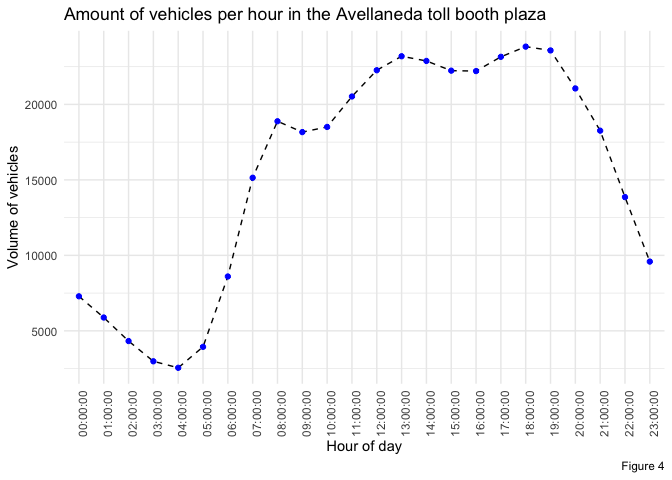
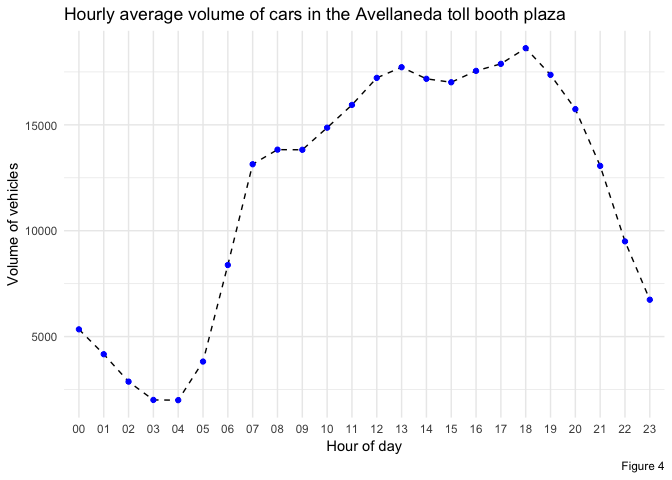
Fixed bug on how arrival rate was computed.

diff --git a/time-estimation/README.md b/time-estimation/README.md
@@ -71,27 +71,25 @@ In the previous section we discussed the need of computing the arrival rate ![\\
 
 ##### Traffic intensity
 
-Going back to what was mentioned at the beginning of this section, traffic intensity was defined as the ratio between the arrival rate ![\\lambda](https://latex.codecogs.com/png.latex?%5Clambda "\lambda") and the service rate ![\\mu](https://latex.codecogs.com/png.latex?%5Cmu "\mu"), so that ![\\lambda &lt; \\mu](https://latex.codecogs.com/png.latex?%5Clambda%20%3C%20%5Cmu "\lambda < \mu"). Expressed that way ![\\mu](https://latex.codecogs.com/png.latex?%5Cmu "\mu") comprises the capacity of all toll booths in a toll booth plaza, so it might be more accurate to express the traffic intensity as ![\\lambda &lt; S\\mu](https://latex.codecogs.com/png.latex?%5Clambda%20%3C%20S%5Cmu "\lambda < S\mu"), where ![S](https://latex.codecogs.com/png.latex?S "S") is the amount of servers which in this case are represented by toll booths. Following the third assumption in the assumptions section, as all toll booths are considered equal, we can express the total capacity of the system by multipying an individual toll booth capacity by the amount of toll booths in a toll booth plaza.
+Going back to what was mentioned at the beginning of this section, traffic intensity was defined as the ratio between the arrival rate ![\\lambda](https://latex.codecogs.com/png.latex?%5Clambda "\lambda") and the service rate ![\\mu](https://latex.codecogs.com/png.latex?%5Cmu "\mu"), so that ![\\lambda &lt; \\mu](https://latex.codecogs.com/png.latex?%5Clambda%20%3C%20%5Cmu "\lambda < \mu"). That condition ensures the system is stable. However, it only accounts for the case of a single server, while in this case we have ![S](https://latex.codecogs.com/png.latex?S "S") toll booths per plaza. This yields a system stability condition of ![\\lambda &lt; S\\mu](https://latex.codecogs.com/png.latex?%5Clambda%20%3C%20S%5Cmu "\lambda < S\mu"), thus defining ![\\rho](https://latex.codecogs.com/png.latex?%5Crho "\rho") as ![\\rho = \\frac{\\lambda}{S\\mu}](https://latex.codecogs.com/png.latex?%5Crho%20%3D%20%5Cfrac%7B%5Clambda%7D%7BS%5Cmu%7D "\rho = \frac{\lambda}{S\mu}"). Following the third assumption in the assumptions section, as all toll booths are considered equal, we can express the total capacity of the system by multipying an individual toll booth capacity by the amount of toll booths in a toll booth plaza.
 
-The next two subsections will be focused on the *Avellaneda* toll booth plaza given that it's the toll booth with the highest volume of vehicles, and with an average of 33 toll booths. The amount of vehicles that arrive on each hour to the toll booth, as shown in Figure 4, is computed considering only the information from January 2014 to December 2018, due to the [asymmetries in the dataset](https://github.com/tulians/traffic/tree/master/descriptive#increment-in-traffic).
+The next two subsections will be focused on the *Avellaneda* toll booth plaza given that it's the toll booth with the highest volume of vehicles, and with an average of 33 toll booths. The amount of vehicles that arrive on each hour to the toll booth, as shown in Figure 4, is computed considering only the information from January 2014 onwards, due to the [asymmetries in the dataset](https://github.com/tulians/traffic/tree/master/descriptive#increment-in-traffic). Additionally, only the *cars* volume will be considered for the mentioned sections, as the analysis can be then extended to the least frequent vehicle types.
 
 ![](README_files/figure-markdown_github/avellanedavehiclesperhour-1.png)
 
 ##### Assumption of 90% utilization
 
-An initial approach to the estimation of time-spent on queues would be to assume that toll booths are operating at 90% of their capacity. It actually makes sense to think that toll booth plazas were designed to be a stable system, due to the fact that even though long queues happen, and frequently during peak hours, they are eventually served up to the point that there's no queue left. In this scenario, each toll booth at the *Avellaneda* toll booth plaza is able to serve up to 523.1244792 vehicles in an hour.
+An initial approach to the estimation of time-spent on queues would be to assume that toll booths are operating at 90% of their capacity. It actually makes sense to think that toll booth plazas were designed to be a stable system, due to the fact that even though long queues happen, and frequently during peak hours, they are eventually served up to the point that there's no queue left. In this scenario, each toll booth at the *Avellaneda* toll booth plaza is able to serve up to 400.901984 vehicles in an hour. This figure comes from computing ![\\mu = \\frac{\\lambda}{S\\rho}](https://latex.codecogs.com/png.latex?%5Cmu%20%3D%20%5Cfrac%7B%5Clambda%7D%7BS%5Crho%7D "\mu = \frac{\lambda}{S\rho}") where ![\\lambda](https://latex.codecogs.com/png.latex?%5Clambda "\lambda") is equal to the 11906.791 vehicles per hour, the average of the amount of vehicles per hour shown in Figure 4, the number of servers ![S](https://latex.codecogs.com/png.latex?S "S") is 33, and the utilization/traffic intensity ![\\rho](https://latex.codecogs.com/png.latex?%5Crho "\rho") is ![90\\%](https://latex.codecogs.com/png.latex?90%5C%25 "90\%"). This result means that in order for the system (toll booth plaza) to be operating at 90% of its capacity, each server (toll booth) needs to service at least 400.9 vehicles per hour. Summing up each server contribution, 13229.771 vehicles can be serviced in an hour by this system. Servicing 13229.771 vehicles in an hour means that on average 220.5 vehicles are serviced per minute in a toll booth plaza, regardless of the toll booth payment method.
 
-where ![\\lambda](https://latex.codecogs.com/png.latex?%5Clambda "\lambda") is equal to the 1553.681 vehicles per hour, the average of the amount of vehicles per hour shown in Figure 4, the number of servers ![S](https://latex.codecogs.com/png.latex?S "S") is 33, and the utilization/traffic intensity ![\\rho](https://latex.codecogs.com/png.latex?%5Crho "\rho") is ![90\\%](https://latex.codecogs.com/png.latex?90%5C%25 "90\%"). This result means that in order for the system (toll booth plaza) to be operating at 90% of its capacity each server (toll booth) needs to service at least 523.12 vehicles per hour. Summing up each server contribution, 1726.3111 vehicles can be serviced in an hour by this system. Servicing 523.12 vehicles in an hour means that on average 8.72 vehicles are serviced per minute.
+Although this number may seem high, it's important to mention that it includes the impact from automatic toll booths, which can service more vehicles that manual toll booths. For the concrete case of the *Avellaneda* toll booth plaza, automatic payments constitute 36.64% of the payments volume. The specific percentages for each our are detailed in Figure 5.
 
-Although this number may seem high, it's important to mention that it includes the impact from automatic toll booths, which can service more vehicles that manual toll booths. For the concrete case of the *Avellaneda* toll booth plaza, automatic payments constitute 38.13% of the payments volume. The specific percentages for each our are detailed in Figure 5.
+![](README_files/figure-markdown_github/utilizationbreakdown-1.png)
 
-![](README_files/figure-markdown_github/percentagegraph-1.png)
-
-If we were to break down the service rate per payment method, we should expect to see faster service time for automatic toll booths, that could account for a high percentage of the almost 8.72 vehicles served per minute. Performing such break down yields 5.6870399 vehicles services by minute in manual payment toll booths, and 18.8859846 vehicles services by minute in automatic payment toll booths.
+If we were to break down the service rate per payment method, we should expect to see faster service time for automatic toll booths, that could account for a high percentage of the almost 220.5 vehicles served per minute. Performing such break down yields 136.4215925 vehicles services by minute in manual payment toll booths, and 84.0744987 vehicles services by minute in automatic payment toll booths. Even though the service rate for manual toll booths is higher than that of automatic toll booths, it must be taken into account that there are more toll booths with manual payment methods that booths with automatic ones. For the particular case of the *Avellaneda* toll booth plaza, an approximate of 6 toll booths are automatic, from a total of 33. This shows that even with just 18.18% of the toll booths being automatic in this plaza, you can service 36.64% of the incoming traffic, as it was mentioned previously.
 
 ###### Characterization of the M/M/S system
 
-Previously a traffic intensity ![\\rho](https://latex.codecogs.com/png.latex?%5Crho "\rho") of ![90\\%](https://latex.codecogs.com/png.latex?90%5C%25 "90\%") was assumed, and by doing so a realistic service rate 5.69 vehicles per minute in manual toll booths and 18.89 vehicles per minute in automatic toll booths was obtained.
+Previously a traffic intensity ![\\rho](https://latex.codecogs.com/png.latex?%5Crho "\rho") of ![90\\%](https://latex.codecogs.com/png.latex?90%5C%25 "90\%") was assumed, and by doing so a realistic service rate 136.42 vehicles per minute in manual toll booths and 84.07 vehicles per minute in automatic toll booths was obtained.
 
 The system will be modeled as an M/M/S queuing model, where
 
@@ -99,38 +97,6 @@ The system will be modeled as an M/M/S queuing model, where
 -   The second M also stands for an exponential distribution, but of the service rate.
 -   And lastly, S stands for the number of servers, in this case toll booths per toll booth plaza.
 
-Traffic intensity ![\\rho](https://latex.codecogs.com/png.latex?%5Crho "\rho") can be used to determine the probability of having no vehicles queuing in the system at a given moment of time, and is written as
+Traffic intensity ![\\rho](https://latex.codecogs.com/png.latex?%5Crho "\rho") can be used to determine the probability of having no vehicles queuing in the system at a given moment of time, and is written as ![P\_0 = 1 - \\rho \\; \\forall \\rho &lt; 1](https://latex.codecogs.com/png.latex?P_0%20%3D%201%20-%20%5Crho%20%5C%3B%20%5Cforall%20%5Crho%20%3C%201 "P_0 = 1 - \rho \; \forall \rho < 1"). This definition of ![P\_0](https://latex.codecogs.com/png.latex?P_0 "P_0") is intuitive, given that if we assume an utilization of ![90\\%](https://latex.codecogs.com/png.latex?90%5C%25 "90\%") it should be expected that the remaining ![10\\%](https://latex.codecogs.com/png.latex?10%5C%25 "10\%") of the time the system is idle.
 
-![
-  \\begin{aligned}
-    P\_0 = 1 - \\rho \\; \\forall \\rho &lt; 1
-  \\end{aligned}
-](https://latex.codecogs.com/png.latex?%0A%20%20%5Cbegin%7Baligned%7D%0A%20%20%20%20P_0%20%3D%201%20-%20%5Crho%20%5C%3B%20%5Cforall%20%5Crho%20%3C%201%0A%20%20%5Cend%7Baligned%7D%0A "
-  \begin{aligned}
-    P_0 = 1 - \rho \; \forall \rho < 1
-  \end{aligned}
-")
-
-This definition of ![P\_0](https://latex.codecogs.com/png.latex?P_0 "P_0") is intuitive, given that if we assume an utilization of ![90\\%](https://latex.codecogs.com/png.latex?90%5C%25 "90\%") it should be expected that the remaining ![10\\%](https://latex.codecogs.com/png.latex?10%5C%25 "10\%") of the time the system is idle. ![P\_0](https://latex.codecogs.com/png.latex?P_0 "P_0") can be used to define the probability of having ![n](https://latex.codecogs.com/png.latex?n "n") vehicles in the system
-
-![
-  \\begin{aligned}
-    P\_n = \\frac{\\rho^n}{n!}P\_0 \\; \\forall n \\leq N
-  \\end{aligned}
-](https://latex.codecogs.com/png.latex?%0A%20%20%5Cbegin%7Baligned%7D%0A%20%20%20%20P_n%20%3D%20%5Cfrac%7B%5Crho%5En%7D%7Bn%21%7DP_0%20%5C%3B%20%5Cforall%20n%20%5Cleq%20N%0A%20%20%5Cend%7Baligned%7D%0A "
-  \begin{aligned}
-    P_n = \frac{\rho^n}{n!}P_0 \; \forall n \leq N
-  \end{aligned}
-")
-
-and
-
-![
-  \\begin{aligned}
-    P\_n = \\frac{\\rho^n}{N^{n-N}N!}P\_0 \\; \\forall n \\geq N
-  \\end{aligned}
-](https://latex.codecogs.com/png.latex?%0A%20%20%5Cbegin%7Baligned%7D%0A%20%20%20%20P_n%20%3D%20%5Cfrac%7B%5Crho%5En%7D%7BN%5E%7Bn-N%7DN%21%7DP_0%20%5C%3B%20%5Cforall%20n%20%5Cgeq%20N%0A%20%20%5Cend%7Baligned%7D%0A "
-  \begin{aligned}
-    P_n = \frac{\rho^n}{N^{n-N}N!}P_0 \; \forall n \geq N
-  \end{aligned}
-")
+Given this definition of ![P\_0](https://latex.codecogs.com/png.latex?P_0 "P_0"), the probability of having ![n](https://latex.codecogs.com/png.latex?n "n") units in the system would be ![P\_n = \\frac{\\rho^n}{n!}P\_0](https://latex.codecogs.com/png.latex?P_n%20%3D%20%5Cfrac%7B%5Crho%5En%7D%7Bn%21%7DP_0 "P_n = \frac{\rho^n}{n!}P_0") when ![n \\leq N](https://latex.codecogs.com/png.latex?n%20%5Cleq%20N "n \leq N"), where ![n](https://latex.codecogs.com/png.latex?n "n") is the amount of vehicles and ![N = S](https://latex.codecogs.com/png.latex?N%20%3D%20S "N = S"), the amount of servers/toll booths. On the other hand ![P\_n = \\frac{\\rho^n}{N^{n-N}N!}P\_0](https://latex.codecogs.com/png.latex?P_n%20%3D%20%5Cfrac%7B%5Crho%5En%7D%7BN%5E%7Bn-N%7DN%21%7DP_0 "P_n = \frac{\rho^n}{N^{n-N}N!}P_0") when ![n \\geq N](https://latex.codecogs.com/png.latex?n%20%5Cgeq%20N "n \geq N"). Depending on the amount of vehicles arriving at the toll booth plaza, one would use the first ![P\_n](https://latex.codecogs.com/png.latex?P_n "P_n") formula or the latter.
